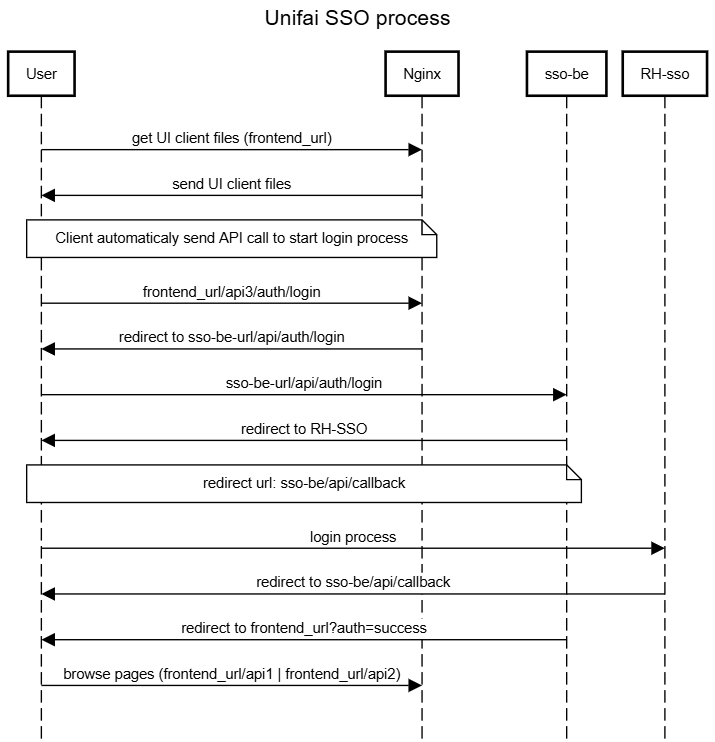
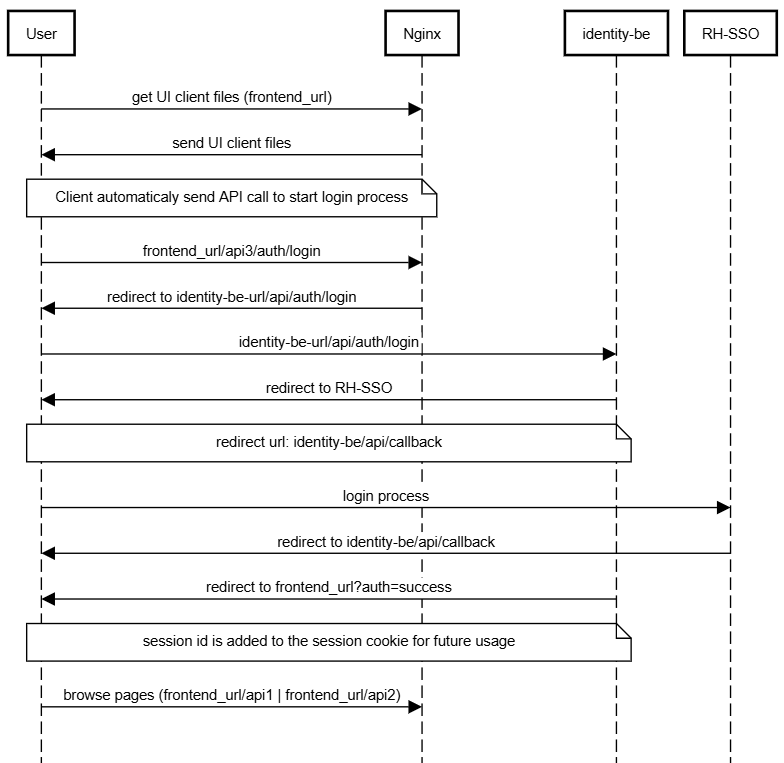
fixed seq diagram and readme

Changed region(s): [[0.0, 0.0, 1.0, 1.0], [0.3692, 0.0, 0.6462, 0.155]]

diff --git a/shared-resources/identity/utils/auth_manager.py b/shared-resources/identity/utils/auth_manager.py
@@ -211,8 +211,7 @@ class AuthManager:
                         )
                 except Exception as e:
                     logger.warning(f"Failed to revoke Keycloak session for {username}: {e}")
-
-            self._pop_server_session()            
+          
             session.clear()
             logger.info(f"User {username} logged out")
             return jsonify({'message': 'Logged out successfully'})

diff --git a/shared-resources/identity/README.md b/shared-resources/identity/README.md
@@ -13,7 +13,7 @@ the chart text is below:
 
 
 ```
-title Unifai Authentication process
+Unifai Authentication process
 
 User->Nginx: get UI client files (frontend_url)
 Nginx->User: send UI client files
@@ -26,8 +26,13 @@ note over User,identity-be:redirect url: identity-be/api/callback
 User->RH-SSO: login process
 RH-SSO->User: redirect to identity-be/api/callback
 identity-be->User: redirect to frontend_url?auth=success
+note over User,identity-be: session id is added to the session cookie for future usage
 User->Nginx: browse pages (frontend_url/api1 | frontend_url/api2)
 ```
+
+When the user logs in to the system he the identity pods gets all user information from the Keycloak server. once the session is authenticated all used information is saved to Redis. Each session gets a random session id which is sent by the ui from now on till the session is expires or the user logs out.
+Each component in the system that is access by an API gets that cookie and can extract the session id in order to extract its details from the Redis server.
+
 
 ## Logout and login (GENIE-827)
 
